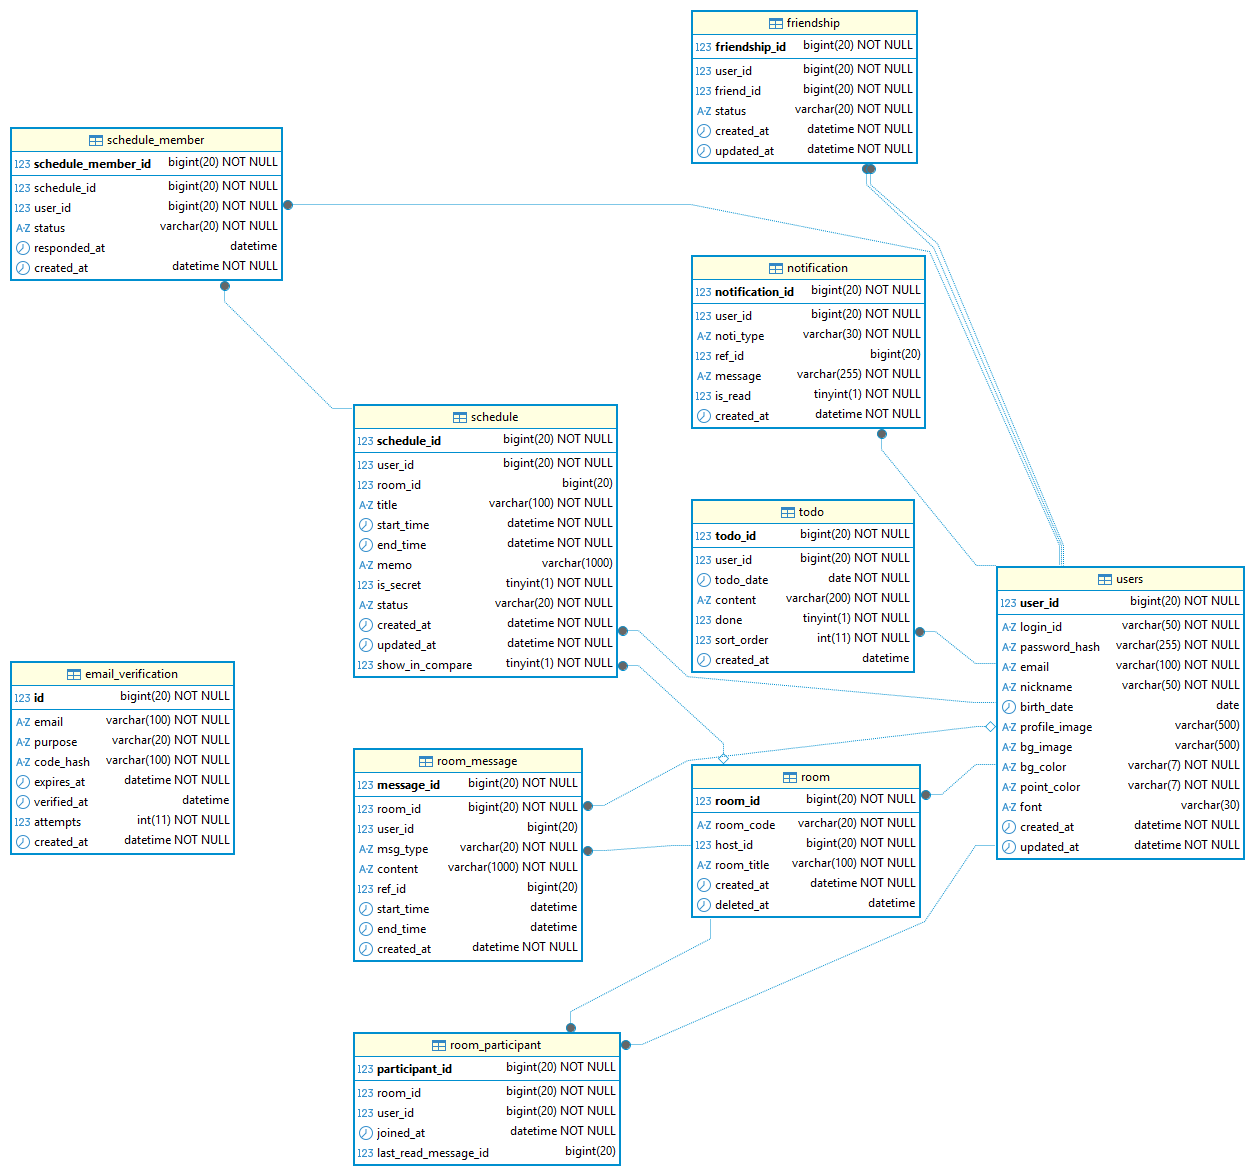
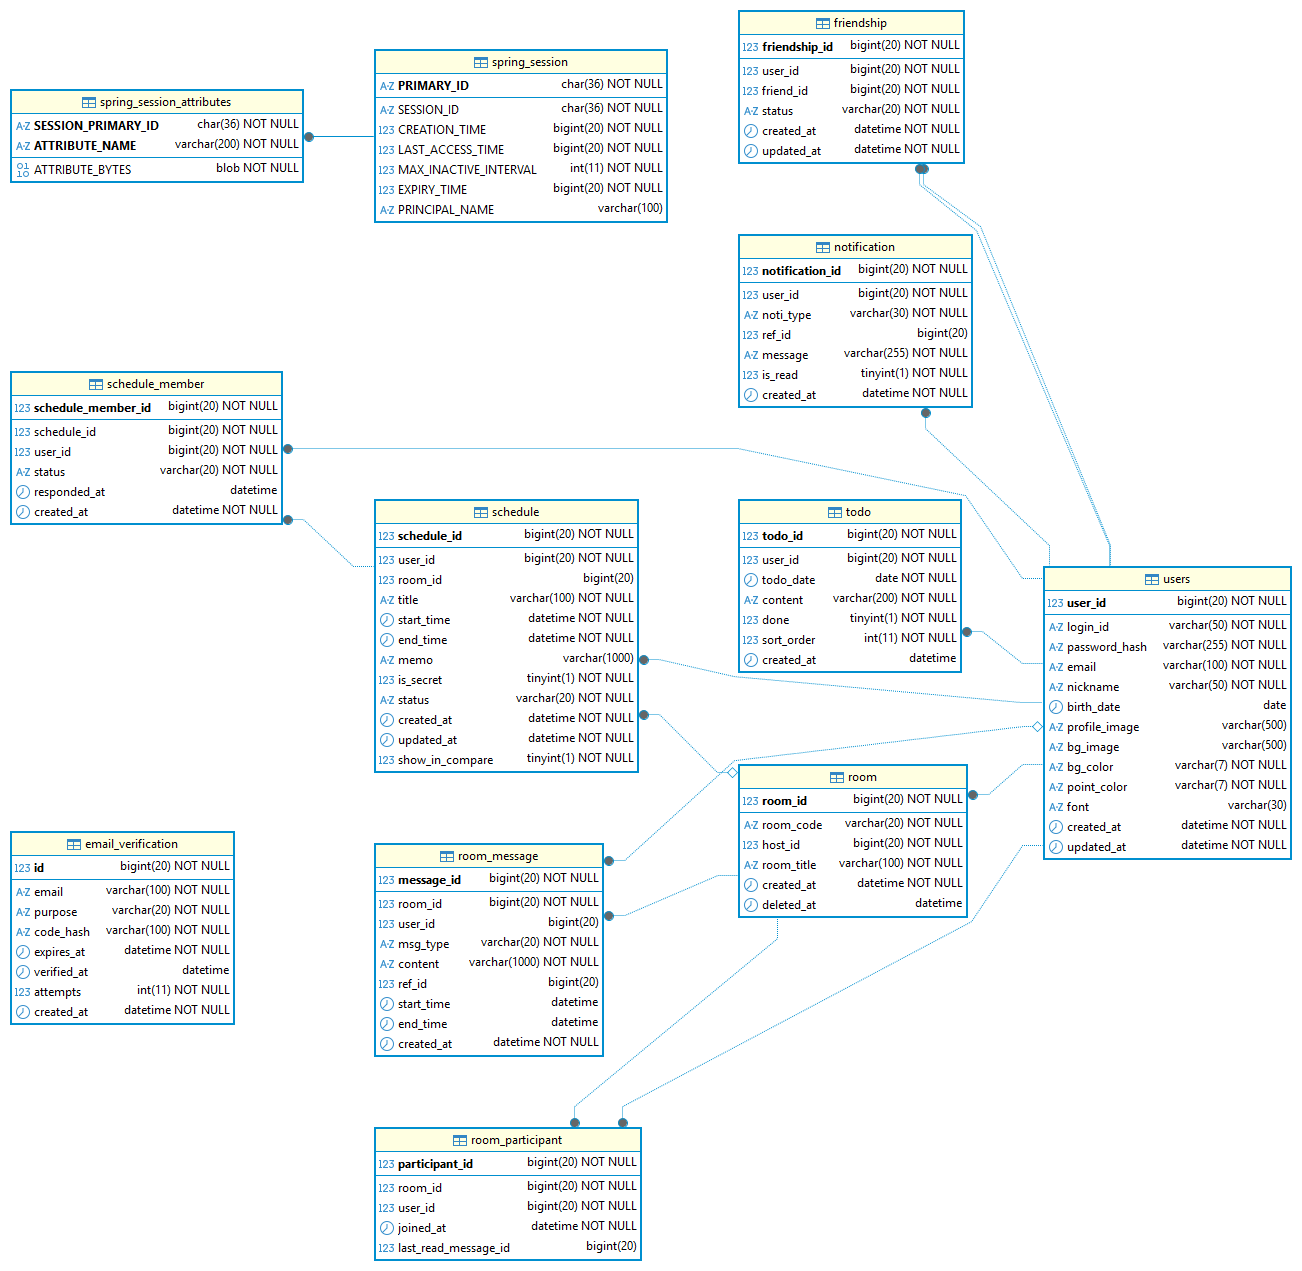
readme.md 수정

diff --git a/README.md b/README.md
@@ -312,12 +312,12 @@
 | 대안 흐름    | 1A. 방을 열지 않은 동안 온 메시지는 사이드바에 안 읽은 메시지 수로 표시한다.<br/>3A. WebSocket 연결이 끊기면 5초마다 새 메시지를 확인하고, 다시 연결을 시도한다.<br/>3B. 초대·확정·취소·입장·퇴장은 시스템 메시지로 표시한다. |
 | 종료 조건    | 회원이 방에서 나간다.                                                                                                                                   |
 
-| 유스케이스 이름 | UC 30 알림 확인                                                                                                                                                                                 |
-| -------- | ------------------------------------------------------------------------------------------------------------------------------------------------------------------------------------------- |
-| 액터       | 회원                                                                                                                                                                                          |
-| 사전조건     | 회원이 로그인되어 있다.                                                                                                                                                                               |
+| 유스케이스 이름 | UC 30 알림 확인                                                                                                                                                                                       |
+| -------- | ------------------------------------------------------------------------------------------------------------------------------------------------------------------------------------------------- |
+| 액터       | 회원                                                                                                                                                                                                |
+| 사전조건     | 회원이 로그인되어 있다.                                                                                                                                                                                     |
 | 기본 흐름    | 1. 읽지 않은 알림이나 응답 대기 중인 초대가 있으면 사이드바 알림 아이콘에 점이 표시된다.<br/>2. 회원이 알림 아이콘을 누른다.<br/>3. 시스템이 친구 요청, 다인 일정 초대, 다인 일정 취소 알림을 보여 주고 모두 읽음 처리한다.<br/>4. 회원이 다인 일정 초대에 바로 수락·거절(UC 27)하거나, 받은 요청 탭으로 이동한다. |
-| 종료 조건    | 알림이 읽음 상태로 바뀐다.                                                                                                                                                                             |
+| 종료 조건    | 알림이 읽음 상태로 바뀐다.                                                                                                                                                                                   |
 
 ---
 
@@ -325,13 +325,13 @@
 
 ### 2-1. 시스템 아키텍처
 
-| 구분       | 기술                                   |
-| -------- | ------------------------------------ |
-| Frontend | React, CSS                           |
-| Backend  | Spring Boot, Spring WebSocket(STOMP) |
-| Database | MariaDB                              |
+| 구분       | 기술                                                      |
+| -------- | ------------------------------------------------------- |
+| Frontend | React, CSS                                              |
+| Backend  | Spring Boot, Spring WebSocket(STOMP)                    |
+| Database | MariaDB                                                 |
 | 인증       | 아이디/비밀번호 + HTTP 세션(Spring Session JDBC로 DB에 저장), BCrypt |
-| 메일       | Spring Mail + Gmail SMTP             |
+| 메일       | Spring Mail + Gmail SMTP                                |
 
 ### 2-2. 주 기능
 
@@ -361,18 +361,18 @@
 - 상태 값은 `VARCHAR` + `CHECK` 제약으로 관리하고, Java에서는 `enum`으로 다룬다.
 - 회원이 탈퇴하면 `users`를 참조하는 행은 대부분 `ON DELETE CASCADE`로 함께 삭제된다.
 
-| 테이블                  | 설명                    |
-| -------------------- | --------------------- |
-| `users`              | 회원 계정과 프로필            |
-| `email_verification` | 이메일 인증번호 (용도별 1건)     |
-| `friendship`         | 친구 요청·관계              |
-| `room`               | 일정 비교 방               |
-| `room_participant`   | 방 참여자와 채팅 읽음 위치       |
-| `schedule`           | 개인 일정과 다인 일정          |
-| `schedule_member`    | 다인 일정에 초대받은 사람과 응답 상태 |
-| `notification`       | 알림                    |
-| `todo`               | 오늘의 일정표의 할 일          |
-| `room_message`       | 방 채팅 메시지 (일반·시스템·초대)  |
+| 테이블                                           | 설명                               |
+| --------------------------------------------- | -------------------------------- |
+| `users`                                       | 회원 계정과 프로필                       |
+| `email_verification`                          | 이메일 인증번호 (용도별 1건)                |
+| `friendship`                                  | 친구 요청·관계                         |
+| `room`                                        | 일정 비교 방                          |
+| `room_participant`                            | 방 참여자와 채팅 읽음 위치                  |
+| `schedule`                                    | 개인 일정과 다인 일정                     |
+| `schedule_member`                             | 다인 일정에 초대받은 사람과 응답 상태            |
+| `notification`                                | 알림                               |
+| `todo`                                        | 오늘의 일정표의 할 일                     |
+| `room_message`                                | 방 채팅 메시지 (일반·시스템·초대)             |
 | `SPRING_SESSION`, `SPRING_SESSION_ATTRIBUTES` | 로그인 세션 (Spring Session JDBC가 관리) |
 
 #### users — 회원
@@ -521,6 +521,33 @@
 
 - `ref_id`, `start_time`, `end_time`은 `INVITE` 메시지에만 쓴다. 다인 일정이 삭제되어도 채팅의 초대 카드에 제목과 시간이 남도록 일정 정보를 메시지에 복사해 둔다.
 - 보낸 회원이 탈퇴하면 메시지는 남기고 `user_id`만 NULL이 된다(`ON DELETE SET NULL`).
+
+#### SPRING_SESSION — 로그인 세션
+
+| 컬럼                      | 타입           | 키   | NULL | 기본값 | 설명                                             |
+| ----------------------- | ------------ | --- | ---- | --- | ---------------------------------------------- |
+| `PRIMARY_ID`            | CHAR(36)     | PK  | N    |     | 세션 내부 번호 (UUID)                                |
+| `SESSION_ID`            | CHAR(36)     | UQ  | N    |     | 쿠키(`JSESSIONID`)에 담기는 세션 ID. 로그인할 때 새로 발급된다    |
+| `CREATION_TIME`         | BIGINT       |     | N    |     | 생성 시각 (밀리초)                                    |
+| `LAST_ACCESS_TIME`      | BIGINT       |     | N    |     | 마지막 요청 시각 (밀리초)                                |
+| `MAX_INACTIVE_INTERVAL` | INT          |     | N    |     | 요청이 없어도 유지되는 시간 (초, 7일)                        |
+| `EXPIRY_TIME`           | BIGINT       | IDX | N    |     | 만료 시각 (밀리초)                                    |
+| `PRINCIPAL_NAME`        | VARCHAR(100) | IDX | Y    |     | 로그인한 사용자 (`LoginUser[userId=…, loginId=…]` 형식) |
+
+- 서버 메모리 대신 이 테이블에 세션을 저장하므로, 백엔드를 다시 시작하거나 업데이트해도 로그인이 유지된다.
+- Spring Session JDBC가 직접 읽고 쓰는 테이블이라 MyBatis 매퍼가 없다.
+- 로그아웃·회원 탈퇴 시 해당 세션 행이 삭제되고, 만료된 세션은 Spring Session이 1분마다 정리한다.
+- 회원 탈퇴와 별개로 관리되므로 `users`와 FK로 연결하지 않는다.
+
+#### SPRING_SESSION_ATTRIBUTES — 세션에 저장된 값
+
+| 컬럼                   | 타입           | 키      | NULL | 기본값 | 설명                                   |
+| -------------------- | ------------ | ------ | ---- | --- | ------------------------------------ |
+| `SESSION_PRIMARY_ID` | CHAR(36)     | PK, FK | N    |     | → `SPRING_SESSION`                   |
+| `ATTRIBUTE_NAME`     | VARCHAR(200) | PK     | N    |     | 값의 이름 (예: `SPRING_SECURITY_CONTEXT`) |
+| `ATTRIBUTE_BYTES`    | BLOB         |        | N    |     | 직렬화한 값 (로그인 정보 `LoginUser` 포함)       |
+
+- 세션이 삭제되면 저장된 값도 함께 삭제된다(`ON DELETE CASCADE`).
 
 ### 2-5. 프로젝트 구조
 
